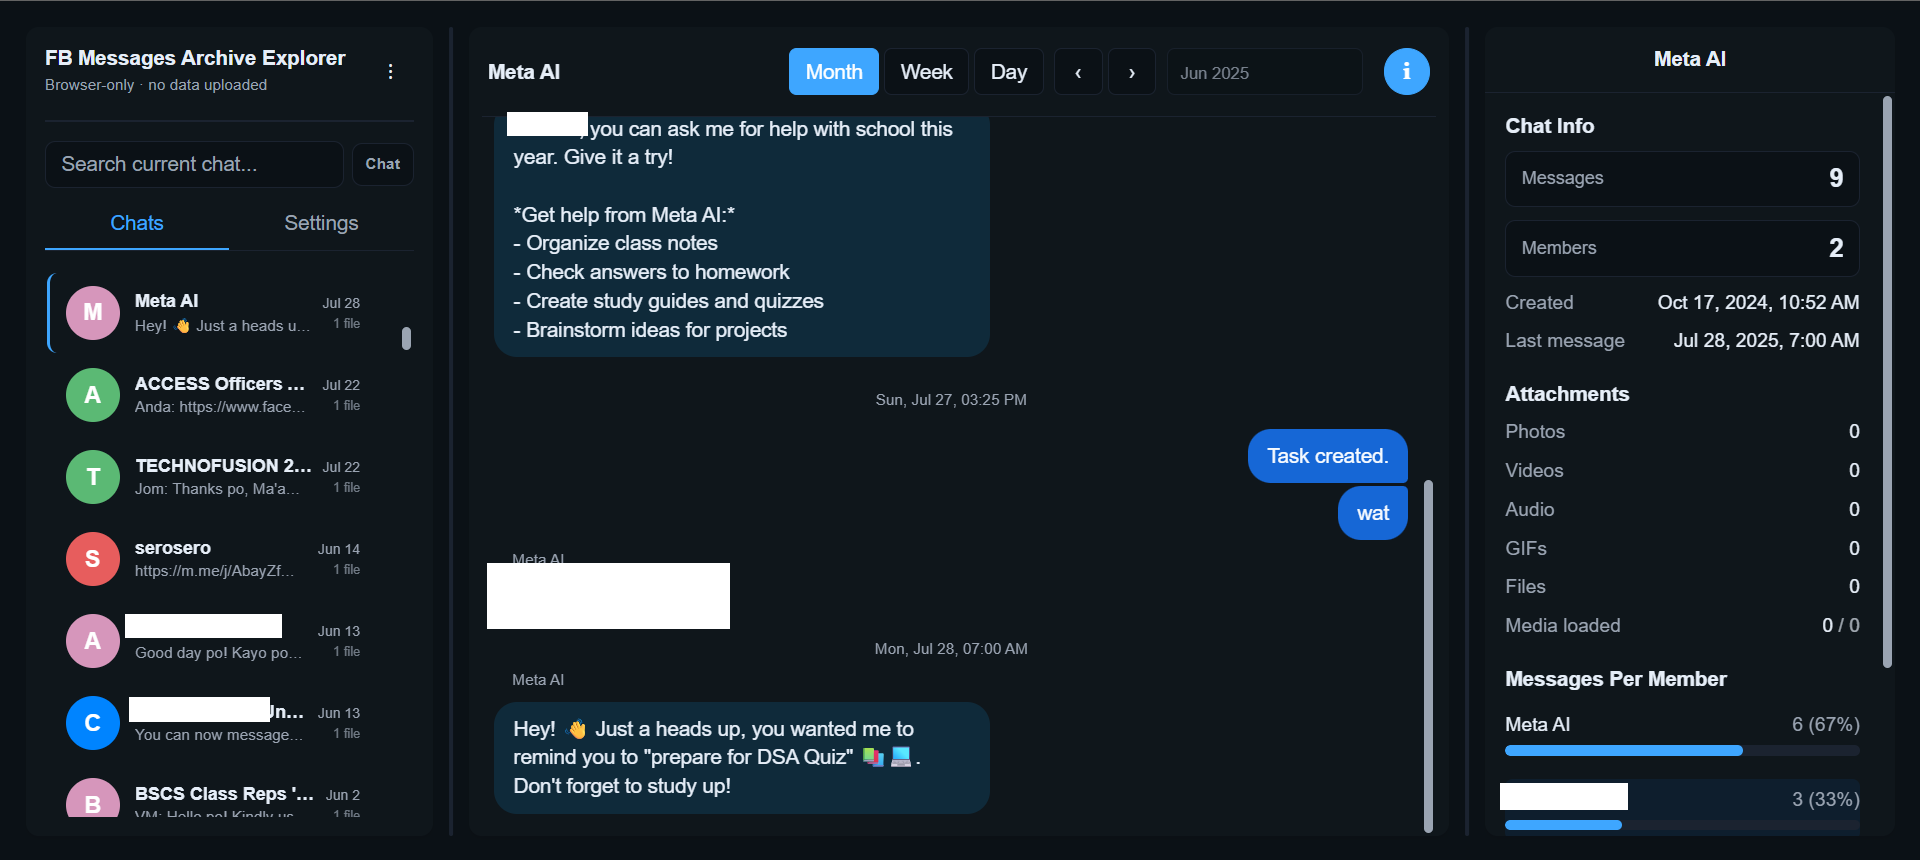
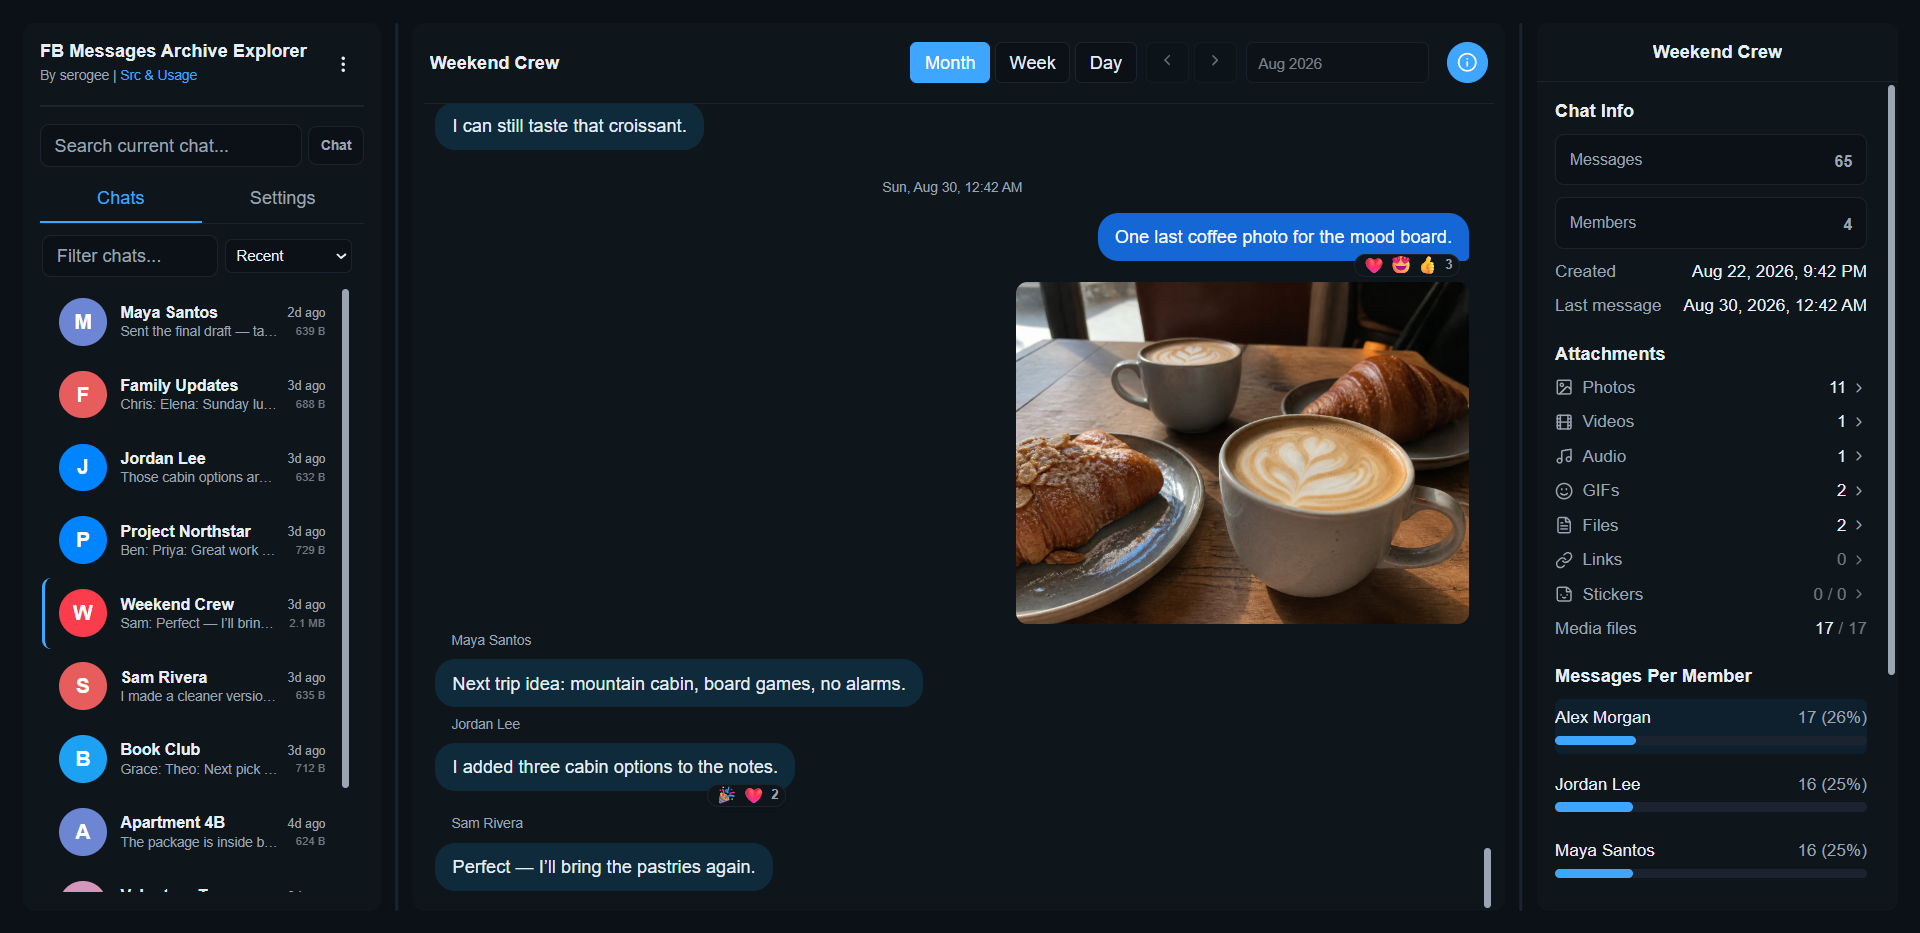
docs(demo): update demo image to use dummy data

diff --git a/README.md b/README.md
@@ -32,6 +32,7 @@ Browse, search, and manage your exported Facebook or Messenger message archive p
 ---
 
 <a name="1-quick-start"></a>
+
 ## 🚀 1. Quick Start
 
 Before you begin, you need a Facebook or Messenger export in **JSON format** (not HTML). See [How to Export Your Messages](#4-how-to-export-your-facebook-or-messenger-messages) for step-by-step instructions.
@@ -56,13 +57,15 @@ Before you begin, you need a Facebook or Messenger export in **JSON format** (no
 ---
 
 <a name="2-demo"></a>
+
 ## 🖥 2. Demo
 
-![Screenshot of FB Messages Archive Explorer showing a chat conversation with message bubbles, a sidebar chat list, and a statistics panel](public/demo.png)
+![Screenshot of FB Messages Archive Explorer showing a chat conversation with message bubbles, a sidebar chat list, and a statistics panel](public/demo.png) \* Dummy data for demo purposes
 
 ---
 
 <a name="3-features"></a>
+
 ## 🔍 3. Features
 
 **Viewing**
@@ -107,6 +110,7 @@ Before you begin, you need a Facebook or Messenger export in **JSON format** (no
 ---
 
 <a name="4-how-to-export-your-facebook-or-messenger-messages"></a>
+
 ## ❓ 4. How to Export Your Facebook or Messenger Messages
 
 Meta offers two ways to download your messages.
@@ -115,6 +119,7 @@ Meta offers two ways to download your messages.
 > Meta can change its interface at any time. If the steps look different from what is described below, visit the [Meta Help Center](https://www.facebook.com/help/) for current instructions.
 
 <a name="41-option-a-facebook-all-facebook-messages"></a>
+
 ### 4.1. Option A: Facebook (all Facebook messages)
 
 1. Go to [https://www.facebook.com/dyi](https://www.facebook.com/dyi).
@@ -139,6 +144,7 @@ Meta offers two ways to download your messages.
 12. In the app, select the extracted folder, or the `messages` folder inside it.
 
 <a name="42-option-b-messenger-standalone-messenger-export"></a>
+
 ### 4.2. Option B: Messenger (standalone Messenger export)
 
 1. Go to [https://www.messenger.com/dyi](https://www.messenger.com/dyi).
@@ -148,6 +154,7 @@ Meta offers two ways to download your messages.
 5. In the app, select the folder that contains your conversation `.json` files.
 
 <a name="4x-which-folder-structure-does-the-app-recognize"></a>
+
 ### 4.x. Which folder structure does the app recognize?
 
 The app automatically finds your messages if you select any of these:
@@ -164,6 +171,7 @@ Conversations are loaded from `inbox`, `archived_threads`, `message_requests`, a
 ---
 
 <a name="5-browser-support-and-limitations"></a>
+
 ## ❔ 5. Browser Support and Limitations
 
 | Feature                      | Chrome, Edge, Brave        | Firefox, Safari                 |
@@ -192,6 +200,7 @@ Conversations are loaded from `inbox`, `archived_threads`, `message_requests`, a
 ---
 
 <a name="6-run-the-app-locally"></a>
+
 ## ⚙ 6. Run the App Locally
 
 Running locally means downloading the source code and starting your own copy of the app on your computer. Most users do not need to do this: the hosted version works the same way and requires no setup.
@@ -199,12 +208,14 @@ Running locally means downloading the source code and starting your own copy of 
 If you want to verify that the app does exactly what it claims, you can run it locally. When you run the app from the source code on your own machine, your browser loads the app directly from your filesystem. You can inspect the code before you run it, and the app cannot contact any server that is not in the code you reviewed.
 
 <a name="61-prerequisites"></a>
+
 ### 6.1. Prerequisites
 
 - [Node.js](https://nodejs.org/) (the project's CI pipeline uses Node 20; other recent versions likely work)
 - [Git](https://git-scm.com/)
 
 <a name="62-setup"></a>
+
 ### 6.2. Setup
 
 **1. Clone the repository**
@@ -236,6 +247,7 @@ Open the local address shown in the terminal (usually `http://localhost:5173/FB-
 Press `Ctrl + C` to stop the server.
 
 <a name="63-build-for-production"></a>
+
 ### 6.3. Build for Production
 
 **Build**
@@ -251,6 +263,7 @@ npm run preview
 ```
 
 <a name="64-other-developer-commands"></a>
+
 ### 6.4. Other Developer Commands
 
 | Command              | Description                |
@@ -263,6 +276,7 @@ npm run preview
 ---
 
 <a name="7-tech-stack"></a>
+
 ## 🤖 7. Tech Stack
 
 ![TypeScript](https://img.shields.io/badge/TypeScript-3178C6?style=flat&logo=typescript&logoColor=white)
@@ -283,6 +297,7 @@ npm run preview
 ---
 
 <a name="8-privacy-and-data-handling"></a>
+
 ## 🔏 8. Privacy and Data Handling
 
 - **No data is uploaded.** After the initial page load, the app makes no network requests.
@@ -296,6 +311,7 @@ npm run preview
 ---
 
 <a name="9-related-project-and-credits"></a>
+
 ## 🔗 9. Related Project and credits
 
 For a simpler tool that opens one Messenger conversation file at a time (no full archive required), see **[Simple Messenger JSON Explorer](https://github.com/serogee/Simple-Messenger-JSON-Explorer)**.
@@ -305,6 +321,7 @@ This project builds upon the work of **[DuckCIT/Facebook-Messenger-JSON-Viewer](
 ---
 
 <a name="10-license"></a>
+
 ## 📜 10. License
 
 [MIT License](LICENSE)
@@ -312,6 +329,7 @@ This project builds upon the work of **[DuckCIT/Facebook-Messenger-JSON-Viewer](
 ---
 
 <a name="11-contact-and-support"></a>
+
 ## 📡 11. Contact and Support
 
 For bug reports, feature requests, or questions, open an issue on GitHub:
